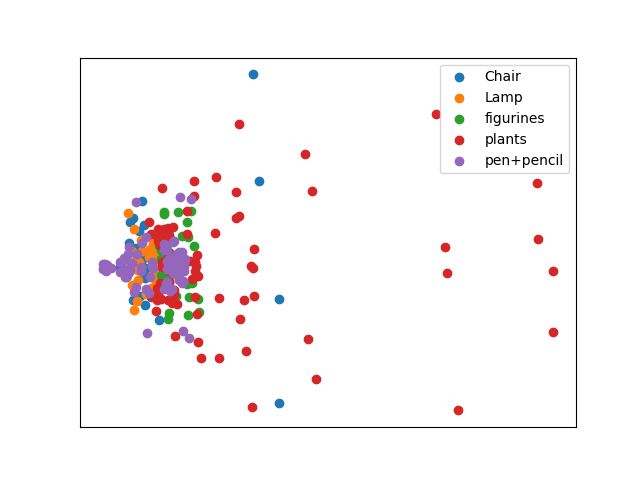
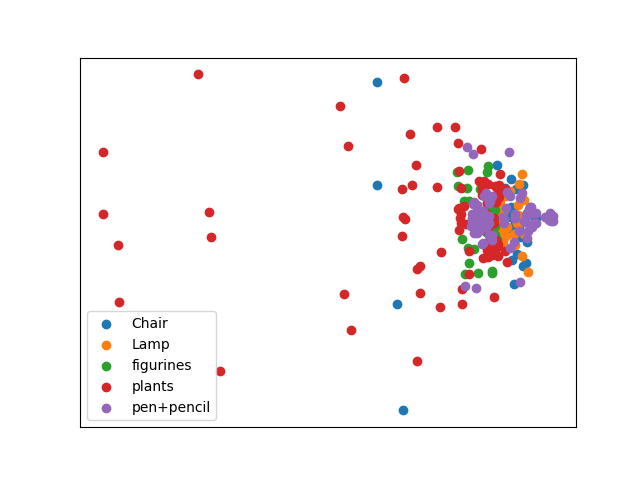
add results

diff --git a/shapley_cb_run_pickup.py b/shapley_cb_run_pickup.py
@@ -1,0 +1,243 @@
+import copy
+import os
+import sys
+
+import h5py
+import numpy as np
+import torch
+import torch.nn as nn
+from tqdm import tqdm
+
+from multi_task_models.grcn_multi_alex import Multi_AlexnetMap_v3
+from training.single_task.evaluation import get_cls_acc, get_grasp_acc
+from utils.parameters import Params
+
+params = Params()
+
+
+def remove_players(model: nn.Module, layer: str, removed_idx: list) -> nn.Module:
+    """
+    Silence the impact of weights within the <layer> of the <model>, except those in <weights>.
+    Silenced weights are replaced by the mean weights of other functional weights
+    """
+    # Update new weights onto new model
+    with torch.no_grad():
+        for name, W in model.named_parameters():
+            if name == layer+'.weight' or name == layer+'.bias':           
+                # Calculate mean non-removed weight
+                keeping_idx = [i for i in range(W.data.shape[0]) if i not in removed_idx]
+                w_mean = torch.mean(W.data[keeping_idx], dim=0)
+                W.data[removed_idx] = w_mean                
+    return model
+        
+
+def one_iteration(
+    model, 
+    layer,
+    players,
+    c,
+    truncation,
+    device='cuda',
+    chosen_players=None,
+    metric='accuracy', 
+    task='cls',
+    other_model=None):
+    '''One iteration of Neuron-Shapley algoirhtm.'''
+    if chosen_players is None:
+        chosen_players = np.arange(len(c.keys()))
+    print(c)
+    print(chosen_players)
+    # Original performance of the model with all players present.
+    init_val = get_acc(model, task=task, device=device)
+
+    # A random ordering of players
+    idxs = np.random.permutation(len(c.keys()))
+    # -1 default value for players that have already converged
+    marginals = -np.ones(len(c.keys()))
+    marginals[chosen_players] = 0.
+
+    truncation_counter = 0
+    old_val = init_val
+
+    pbar = tqdm(total=len(idxs))
+    removing_players = []
+    for idx in idxs:
+        if idx in chosen_players:
+            removing_players.append(players[c[idx]])
+            partial_model = remove_players(other_model, layer, removing_players) 
+            new_val = get_acc(partial_model, task=task, device=device)
+            marginals[c[idx]] = old_val - new_val
+            old_val = new_val
+            
+            
+            if metric == 'accuracy' and new_val <= truncation:
+                truncation_counter += 1
+            else:
+                truncation_counter = 0
+            if truncation_counter > 5:
+                break
+        else:
+            removing_players.append(players[c[idx]])
+            partial_model = remove_players(model, layer, removing_players)      
+            new_val = get_acc(partial_model, task=task, device=device)
+            old_val = new_val
+
+        pbar.set_postfix({'Acc': new_val})
+        pbar.update(1)
+
+    return idxs.reshape((1, -1)), marginals.reshape((1, -1))
+
+
+def get_acc(model, task='cls', device='cuda:0'):
+    if task == 'cls':
+        return get_cls_acc(model, include_depth=True, seed=None, dataset=params.TEST_PATH, truncation=params.DATA_TRUNCATION, device=device)[0]
+    elif task == 'grasp':
+        return get_grasp_acc(model, include_depth=True, seed=None, dataset=params.TEST_PATH, truncation=params.DATA_TRUNCATION, device=device)[0]
+    else:
+        raise ValueError('Invalid task!')
+
+
+class TensorID:
+    """
+    ID wrapper around a tensor
+    """
+    def __init__(self, layer: str, tensor: torch.Tensor, id_: int):
+        self.layer = layer
+        self.tensor = tensor
+        self.id = id_
+
+    def __str__(self):
+        return f"<id:{self.id}, tensor:{self.tensor}>"
+
+    def __repr__(self):
+        return self.__str__()
+
+
+def get_model(model_path, device=params.DEVICE):
+    model = Multi_AlexnetMap_v3().to(device)
+    model.load_state_dict(torch.load(model_path))
+    model.eval()
+
+    return model
+
+
+def get_weights(model, layer):
+    for name, W in model.named_parameters():
+        if name == layer+'.weight':
+            weight = torch.split(W, 1, dim=0)
+        elif name == layer+'.bias':
+            bias = torch.split(W, 1, dim=0)
+
+    assert weight is not None, f"Layer {layer} not found"
+    assert bias is not None, f"Layer {layer} not found"
+
+    weights = [TensorID(layer+'.weight', None, i) for i, _ in enumerate(weight)]
+    biases = [TensorID(layer+'.bias', None, i) for i, _ in enumerate(bias)]
+
+    return weights, biases
+
+
+def get_players(directory, weights):
+    ## Load the list of all players (filters) else save
+    players = []
+    for weight in weights:
+        players.append(str(weight.id))
+    np.sort(players)
+    open(os.path.join(directory, 'players.txt'), 'w').write(','.join(players))
+
+    return np.array(players).astype(np.int8)
+
+
+def instantiate_tmab_logs(players, log_dir):
+    ## Create placeholder for results in save ASAP to prevent having the 
+    ## same expriment_number with other parallel cb_run.py scripts
+    mem_tmc = np.zeros((0, len(players)))
+    idxs_tmc = np.zeros((0, len(players))).astype(int)
+
+    with h5py.File(log_dir, 'w') as foo:
+        foo.create_dataset("mem_tmc", data=mem_tmc, compression='gzip')
+        foo.create_dataset("idxs_tmc", data=idxs_tmc, compression='gzip')
+
+    return mem_tmc, idxs_tmc
+def get_tmab_logs(players, log_dir):
+    ## Create placeholder for results in save ASAP to prevent having the 
+    ## same expriment_number with other parallel cb_run.py scripts
+
+    with h5py.File(log_dir, 'r') as foo:
+        mem_tmc = foo["mem_tmc"]
+        idxs_tmc = foo["idxs_tmc"]
+
+    return mem_tmc, idxs_tmc
+
+
+# Experiment parameters
+SAVE_FREQ = 1
+TASK = 'cls'
+LAYER = 'rgb_features.0'
+METRIC = 'accuracy'
+TRUNCATION_ACC = 50.
+DEVICE = sys.argv[1]
+DIR = 'shap'
+MODEL_NAME = params.MODEL_NAME
+MODEL_PATH = params.MODEL_WEIGHT_PATH
+
+PARALLEL_INSTANCE = sys.argv[2]
+
+## CB directory
+run_name = '%s_%s' % (MODEL_NAME, LAYER)
+run_dir = os.path.join(DIR, run_name)
+log_dir = os.path.join(run_dir, '%s_%s.h5' % (run_name, PARALLEL_INSTANCE))
+
+
+if DIR not in os.listdir('.'):
+    os.mkdir(DIR)
+if run_name not in os.listdir(DIR):
+    os.mkdir(run_dir)
+
+## Load Model and get weights
+model = get_model(MODEL_PATH, DEVICE)
+weights, bias = get_weights(model, LAYER)
+weights = weights[:-2]
+## Instantiate or load player list
+players = get_players(run_dir, weights)
+# Instantiate tmab logs
+mem_tmc, idxs_tmc = get_tmab_logs(players, log_dir)
+
+## Running CB-Shapley
+#c = {i: np.array([i]) for i in range(len(players))}
+c = {i: i for i in range(len(players))}
+
+counter = 0
+while True:
+    ## Load the list of players (filters) that are determined to be not confident enough
+    ## by the cb_aggregate.py running in parallel to this script
+    if 'chosen_players.txt' in os.listdir(run_dir):
+        chosen_players = open(os.path.join(run_dir, 'chosen_players.txt')).read()
+        chosen_players = np.array(chosen_players.split(',')).astype(int)
+        if len(chosen_players) == 1:
+            break
+    else:
+        chosen_players = None
+    idxs, vals =  one_iteration(
+        copy.deepcopy(model),
+        LAYER, 
+        players,
+        c,
+        TRUNCATION_ACC,
+        device=DEVICE,
+        chosen_players=chosen_players,
+        metric=METRIC,
+        task=TASK,
+        other_model=model
+    )
+
+    mem_tmc = np.concatenate([mem_tmc, vals])
+    idxs_tmc = np.concatenate([idxs_tmc, idxs])
+    
+    ## Save results every SAVE_FREQ iterations
+    if counter % SAVE_FREQ == SAVE_FREQ - 1:
+        with h5py.File(log_dir, 'w') as foo:
+            foo.create_dataset("mem_tmc", data=mem_tmc, compression='gzip')
+            foo.create_dataset("idxs_tmc", data=idxs_tmc, compression='gzip')
+            
+    counter += 1